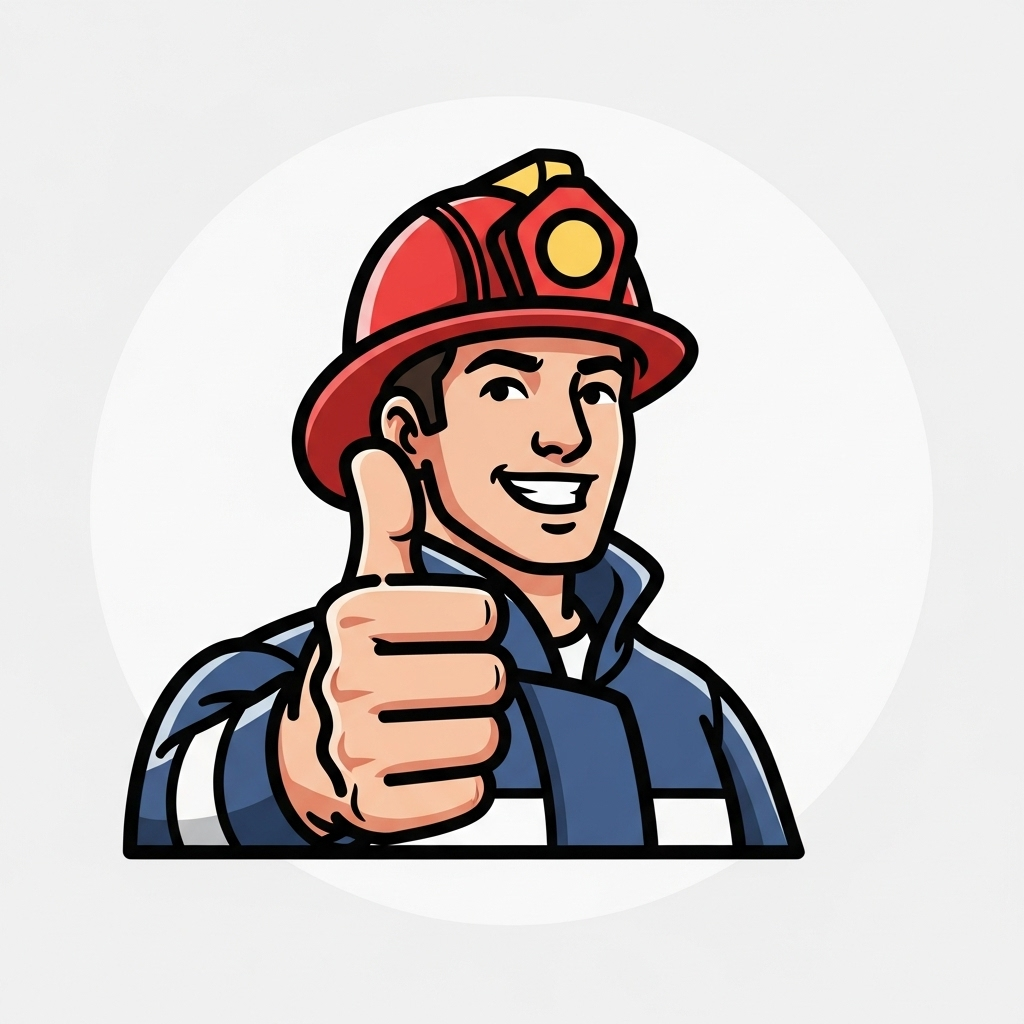
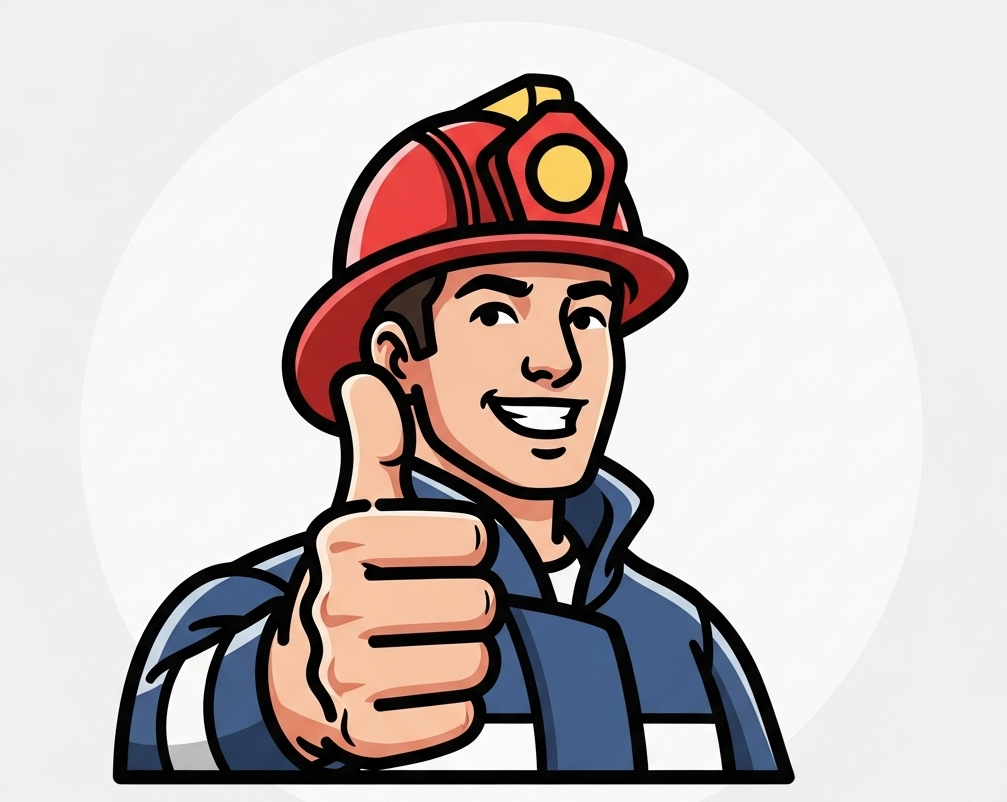
feat: 챗봇 시스템 개선 및 UI 업데이트
🤖 Generated with [Claude Code](https://claude.ai/code)

Changed region(s): [[0.0924, 0.0935, 0.8004, 0.9975]]

diff --git a/my_app/assets/style.css b/my_app/assets/style.css
@@ -10,14 +10,21 @@
 /* data-testid 는 streamlit을 실행하고 나서, 브라우저 개발자 도구에서 확인할 수 있습니다. */
 
 div[data-testid="stHorizontalBlock"] > div:nth-child(3) div[data-testid="stVerticalBlock"] {
-    border: 1px solid #959595; /* 테두리 복원 */
+    border: 1px solid #fefcd1; /* 테두리 복원 */
+    border-radius: 16px;
+    box-shadow: 0 8px 24px rgba(45, 45, 45, 0.05);
+    padding: 0.5rem;
+}
+
+div[data-testid="stHorizontalBlock"] > div:nth-child(3) div[data-testid="stVerticalBlock"] > div[data-testid="stVerticalBlock"]{
+    border: 1px solid #000000; /* 테두리 복원 */
     border-radius: 16px;
     box-shadow: 0 8px 24px rgba(45, 45, 45, 0.05);
     padding: 0.5rem;
 }
 
 div[data-testid="stHorizontalBlock"] > div:nth-child(2) div[data-testid="stVerticalBlock"] > div[data-testid="stVerticalBlock"]{
-    border: 1px solid #959595; /* 테두리 복원 */
+    border: 1px solid #ffacac; /* 테두리 복원 */
     border-radius: 16px;
     box-shadow: 0 8px 24px rgba(45, 45, r45, 0.05);
     padding: 0.5rem;
@@ -79,29 +86,4 @@ div[data-testid="stHorizontalBlock"] > div:nth-child(3) div[data-testid="stVerti
 /* 프로그레스 바 텍스트 (진행률 표시) */
 .st-bb.st-bc.st-bd.st-be.st-bf.st-bg.st-bh.st-bi.st-ar.st-as.st-b5.st-b6 + div {
     color: #2E7D32 !important; /* 텍스트 색상 */
-}
-
-/* --- 메인 컨테이너 배경 이미지 설정 --- */
-/* Streamlit 메인 컨테이너에 배경 이미지를 반복적으로 적용 */
-div[data-testid="stMain"] {
-    position: relative; /* 상대 위치 설정으로 ::before 사용 가능하게 함 */
-    background-color: rgba(255, 255, 255, 0.98); /* 밝은 배경색으로 컨텐츠 가독성 확보 */
-}
-
-/* ::before 의사 요소를 사용하여 배경 이미지 적용 */
-div[data-testid="stMain"]::before {
-    content: '';
-    position: absolute;
-    top: 0;
-    left: 0;
-    right: 0;
-    bottom: 0;
-    background-image: url('./FIRE_LOGO_small.png'); /* 배경 이미지 경로 */
-    background-repeat: repeat; /* 이미지를 반복적으로 타일처럼 배치 */
-    background-size: 80px 80px; /* 각 이미지의 크기 설정 (조금 작게) */
-    background-position: center center; /* 배경 이미지 위치 */
-    background-attachment: fixed; /* 배경 고정 (스크롤해도 움직이지 않음) */
-    opacity: 0.08; /* 배경 이미지만 투명하게 (컨텐츠 영향 없음) */
-    z-index: -1; /* 배경으로 보내기 */
-    pointer-events: none; /* 마우스 이벤트 무시 */
 }

diff --git a/my_app/ui/chatbot/chatbot.py b/my_app/ui/chatbot/chatbot.py
@@ -9,6 +9,8 @@ from langchain_core.runnables import RunnableConfig
 from langgraph.types import Command, Interrupt
 from typing_extensions import Iterator
 
+from my_app.chatbot.chat_core.model_loader import flush_langfuse, get_langfuse_handler
+
 sys.path.append(str(Path(__file__).parents[3]))
 
 try:
@@ -58,70 +60,6 @@ def get_image_base64(image_path: str) -> str:
     except Exception as e:
         st.error(f"이미지 로드 실패: {e}")
         return ""
-
-
-def apply_background_image(
-    image_name: str = "FIRE_LOGO_large.png", style: str = "cover", opacity: float = 0.85
-):
-    """Apply background image with different styles."""
-    background_image_path = str(Path(__file__).parents[2] / "assets" / image_name)
-    background_image_b64 = get_image_base64(background_image_path)
-
-    if not background_image_b64:
-        return False
-
-    styles = {
-        "cover": """
-        background-size: cover;
-        background-position: center;
-        background-repeat: no-repeat;
-        """,
-        "repeat": """
-        background-size: 30px 30px;
-        background-position: 0 0;
-        background-repeat: repeat;
-        """,
-        "center": """
-        background-size: auto;
-        background-position: center;
-        background-repeat: no-repeat;
-        """,
-        "stretch": """
-        background-size: 100% 100%;
-        background-position: center;
-        background-repeat: no-repeat;
-        """,
-    }
-
-    css_style = styles.get(style, styles["cover"])
-
-    st.markdown(
-        f"""
-    <style>
-    .stApp {{
-        background-image: url('{background_image_b64}');
-        background-attachment: fixed;
-        {css_style}
-        opacity: {opacity};
-    }}
-
-    /* 콘텐츠 영역에 반투명한 흰색 배경 추가 */
-    .stApp > div {{
-        background-color: rgba(255, 255, 255, 0.85) !important;
-        border-radius: 10px;
-        margin: 10px;
-        padding: 10px;
-    }}
-
-    /* 사이드바와 메인 영역 구분 */
-    .stApp > div[data-testid="stSidebar"] {{
-        background-color: rgba(255, 255, 255, 0.95) !important;
-    }}
-    </style>
-    """,
-        unsafe_allow_html=True,
-    )
-    return True
 
 
 def initialize_chatbot():
@@ -174,11 +112,9 @@ def check_and_submit_tool_response(current_category: str):
         st.session_state.get("quiz", {}).get(current_category, {}).get("questions", [])
     )
 
-    # user_answers나 quiz_questions가 None이거나 비어있는 경우 처리
     if not user_answers or not quiz_questions:
         return
 
-    # check if all questions have been answered
     if len(user_answers) >= len(quiz_questions) and len(quiz_questions) > 0:
         try:
             counts = len(quiz_questions)
@@ -285,7 +221,7 @@ def run_graph(
             # events가 None이거나 비어있는 경우 안전하게 처리
             if "events" not in st.session_state:
                 st.session_state["events"] = []
-            
+
             st.session_state["events"] += event
             key = list(event.keys())[0]
             update = event[key]
@@ -316,7 +252,7 @@ def run_graph(
             # events가 None이거나 비어있는 경우 안전하게 처리
             if "events" not in st.session_state:
                 st.session_state["events"] = []
-            
+
             st.session_state["events"] += event
             key = list(event.keys())[0]
             update = event[key]
@@ -341,14 +277,6 @@ def run_graph(
 
 def render_quiz(container):
     with container:
-        # debug logs
-        with st.expander("Debug Logs"):
-            graph_state: OverallState | None = st.session_state.graph.get_state(
-                st.session_state.config
-            )
-            st.write(graph_state)
-
-        # interrupts가 None이거나 비어있는 경우 안전하게 처리
         interrupts = st.session_state.get("interrupts", [])
         if not interrupts:
             return
@@ -389,7 +317,7 @@ def render_quiz(container):
 
 def render_finished_chat(container):
     with container:
-        st.image(FINISHED_CHAT_IMAGE_PATH, use_container_width=True)
+        st.image(FINISHED_CHAT_IMAGE_PATH, width="stretch")
 
 
 def reset_data():
@@ -441,6 +369,7 @@ def render_chat(container):
                 st.session_state["quiz"][category]["options"] = []
                 st.session_state["quiz"][category]["synced"] = False
             render_finished_chat(st.session_state["quiz_placeholder"])
+            flush_langfuse()
             st.empty()
             st.balloons()
             if st.button("🔁 다시 시작", use_container_width=True):
@@ -449,20 +378,6 @@ def render_chat(container):
 
 
 def render():
-    # 배경 이미지 적용 예시들:
-    # apply_background_image(style="cover", opacity=0.8)      # 전체 화면 커버
-    # apply_background_image(style="repeat", opacity=0.9)     # 반복 패턴
-    # apply_background_image(style="center", opacity=0.7)     # 가운데 정렬
-    # apply_background_image(style="stretch", opacity=0.8)    # 화면에 맞춰 늘이기
-    # apply_background_image("FIRE_LOGO_small.png", "repeat", 0.95)  # 다른 이미지 사용
-
-    # if apply_background_image("FIRE_LOGO_small.png", style="repeat", opacity=1):
-
-    st.markdown(
-        '<div style="text-align: center; color: red; font-size: 40px; font-weight: bold; font-family: Montserrat; background-color: white; padding: 10px; border-radius: 5px;opacity: 0.7;">Jasan Rescue 🚒</div>',
-        unsafe_allow_html=True,
-    )
-
     initialize_chatbot()
 
     # 커스텀 CSS 적용
@@ -471,11 +386,18 @@ def render():
 
     _, left_screen, right_screen, _ = st.columns([0.1, 0.4, 0.4, 0.1], border=False)
 
+    # 왼쪽에서 두 번째 열에 Jasan Rescue 텍스트 배치
     with left_screen:
-        st.session_state["quiz_placeholder"] = st.container(border=True, height=500)
+        st.markdown(
+            '<div style="text-align: center; color: red; font-size: 40px; font-weight: bold; font-family: Montserrat; background-color: white; padding: 10px; border-radius: 5px;opacity: 0.7;">Jasan Rescue 🚒</div>',
+            unsafe_allow_html=True,
+        )
+
+    with left_screen:
+        st.session_state["quiz_placeholder"] = st.container(border=True, height=400)
 
     with right_screen:
-        st.session_state["chat_placeholder"] = st.container(border=True, height=500)
+        st.session_state["chat_placeholder"] = st.container(border=True, height=480)
 
     if not st.session_state.get("ai", {}).get("initialized", False):
         user_data: dict = st.session_state.user_data
@@ -493,6 +415,7 @@ def render():
                     st.session_state.supabase, st.session_state.user.id
                 ),
             },
+            callbacks=[get_langfuse_handler()],
         )
         st.session_state.config = config
         st.session_state["ai"]["initialized"] = True

diff --git a/my_app/chatbot/chat_core/model_loader.py b/my_app/chatbot/chat_core/model_loader.py
@@ -4,9 +4,12 @@ from pathlib import Path
 from dotenv import load_dotenv
 from langchain_openai import ChatOpenAI
 from langchain_upstage import UpstageEmbeddings
+from langfuse import Langfuse, get_client
+from langfuse.langchain import CallbackHandler
 
 ENV_PATH: Path = Path(__file__).parents[3] / ".env"
-OPENAI_MODEL_NAME: str = "gpt-5-mini"
+# OPENAI_MODEL_NAME: str = "gpt-5-mini"
+OPENAI_MODEL_NAME: str = "gpt-4.1-mini"
 
 # Only load .env file if it exists and we're not in a test environment
 if ENV_PATH.exists():
@@ -14,7 +17,6 @@ if ENV_PATH.exists():
 
 _llm_models = {}
 _llm_models_with_tool = {}
-api_key: str | None = os.getenv("GOOGLE_API_KEY")
 
 
 def get_llm_models(model_name: str, tool: bool = False):
@@ -31,7 +33,7 @@ def get_llm_models(model_name: str, tool: bool = False):
         temperature=0.4,
         max_retries=0,
         api_key=os.getenv("OPENAI_API_KEY"),  # pyright: ignore[reportArgumentType]
-        reasoning_effort="low",
+        # reasoning_effort="low",
     )
 
     _llm_models[model_name] = model
@@ -56,7 +58,7 @@ def _get_model_with_tool(model_name: str):
         temperature=0.4,
         max_retries=0,
         api_key=os.getenv("OPENAI_API_KEY"),  # pyright: ignore[reportArgumentType]
-        reasoning_effort="low",
+        # reasoning_effort="low",
     )
     model_with_tool = model.bind_tools(
         [RequestHumanInput, AnalyzeProfile, GenerateFollowUp]
@@ -72,3 +74,26 @@ def get_embedding_model():
     )
 
     return model
+
+
+def get_langfuse_handler():
+    Langfuse(
+        public_key=os.getenv("LANGFUSE_PUBLIC_KEY"),
+        secret_key=os.getenv("LANGFUSE_SECRET_KEY"),
+        host=os.getenv("LANGFUSE_HOST"),
+    )
+
+    # Initialize the Langfuse handler
+    langfuse_handler = CallbackHandler()
+
+    return langfuse_handler
+
+
+def flush_langfuse():
+    Langfuse(
+        public_key=os.getenv("LANGFUSE_PUBLIC_KEY"),
+        secret_key=os.getenv("LANGFUSE_SECRET_KEY"),
+        host=os.getenv("LANGFUSE_HOST"),
+    )
+    langfuse = get_client()
+    langfuse.flush()

diff --git a/my_app/chatbot/chat_core/nodes/analysis_nodes.py b/my_app/chatbot/chat_core/nodes/analysis_nodes.py
@@ -72,18 +72,25 @@ def analyze_user_answers(state: OverallState) -> dict:
 
     llm = get_llm_models(OPENAI_MODEL_NAME)
 
-    chain = prompt_template | llm.with_structured_output(AnalysisData)  # pyright: ignore[reportPossiblyUnboundVariable]
+    chain = prompt_template | llm  # pyright: ignore[reportPossiblyUnboundVariable]
 
     result = chain.invoke(
-        {"compacted_user_answer": state.user_answers_compacted[current_category]}
+        {"compacted_user_answer": state.user_answers_compacted[current_category]},
     )
-    analysis_data = result.data
+    analysis_data = result.content
 
     message_prompt: str = ANALYSIS_USER_ANSWER_PROMPTS[current_category].format(
         user_name=state.user_meta_data["name"], data=analysis_data
     )
 
     return {
+        "logs": [
+            {
+                "level": "info",
+                "message": f"User answer analyzed for {current_category}",
+                "timestamp": time.time(),
+            }
+        ],
         "messages": [AIMessage(content=message_prompt)],
         "user_meta_data": {
             **state.user_meta_data,
@@ -262,6 +269,7 @@ Using the provided `{data}`, write a sharp, analytical profile as **a single, co
     )
 
     llm = get_llm_models(OPENAI_MODEL_NAME)
+
     structured_llm = llm
 
     chain = prompt_template | structured_llm

diff --git a/my_app/app.py b/my_app/app.py
@@ -71,7 +71,7 @@ PAGE_ICONS = {
 # 사용자 역할별 메뉴 구성 - 새로운 메뉴 추가시 여기서 수정
 USER_MENUS = {
     "User": [
-        ("Chatbot", "chatbot"),
+        ("사용자 메타 분석", "chatbot"),
         ("오늘의 퀴즈", "quiz"),
         ("맞춤형 금융 지식", "content"),
         ("맞춤형 상품 추천", "rag_recommendation"),
@@ -579,6 +579,7 @@ def route_to_page():
         elif current_page == "analysis":
             try:
                 from ui.analysis.streamlit_app import render  # type: ignore
+
                 render()
             except Exception as e:
                 st.error(f"{e} 모듈 임포트 중 오류가 발생했습니다.")
@@ -596,9 +597,9 @@ def route_to_page():
                 st.title("⚙️ Settings")
                 st.info("ui/settings/settings.py 파일을 생성해주세요.")
 
-        else:
-            st.title("🏠 홈")
-            st.write("환영합니다! 사이드바에서 원하는 메뉴를 선택해주세요.")
+        # else:
+        #     st.title("🏠 홈")
+        #     st.write("환영합니다! 사이드바에서 원하는 메뉴를 선택해주세요.")
 
     except Exception as e:
         st.error(f"페이지 로딩 중 오류가 발생했습니다: {e}")

diff --git a/my_app/chatbot/chat_core/nodes/update_nodes.py b/my_app/chatbot/chat_core/nodes/update_nodes.py
@@ -11,6 +11,7 @@ from my_app.chatbot.services import ProfileService
 def update_user_profile(state: OverallState, config: RunnableConfig):
     profile_service: ProfileService | None = None
     configurable = config.get("configurable")
+
     if configurable and hasattr(configurable, "get"):
         profile_service = configurable.get("profile_service")
 